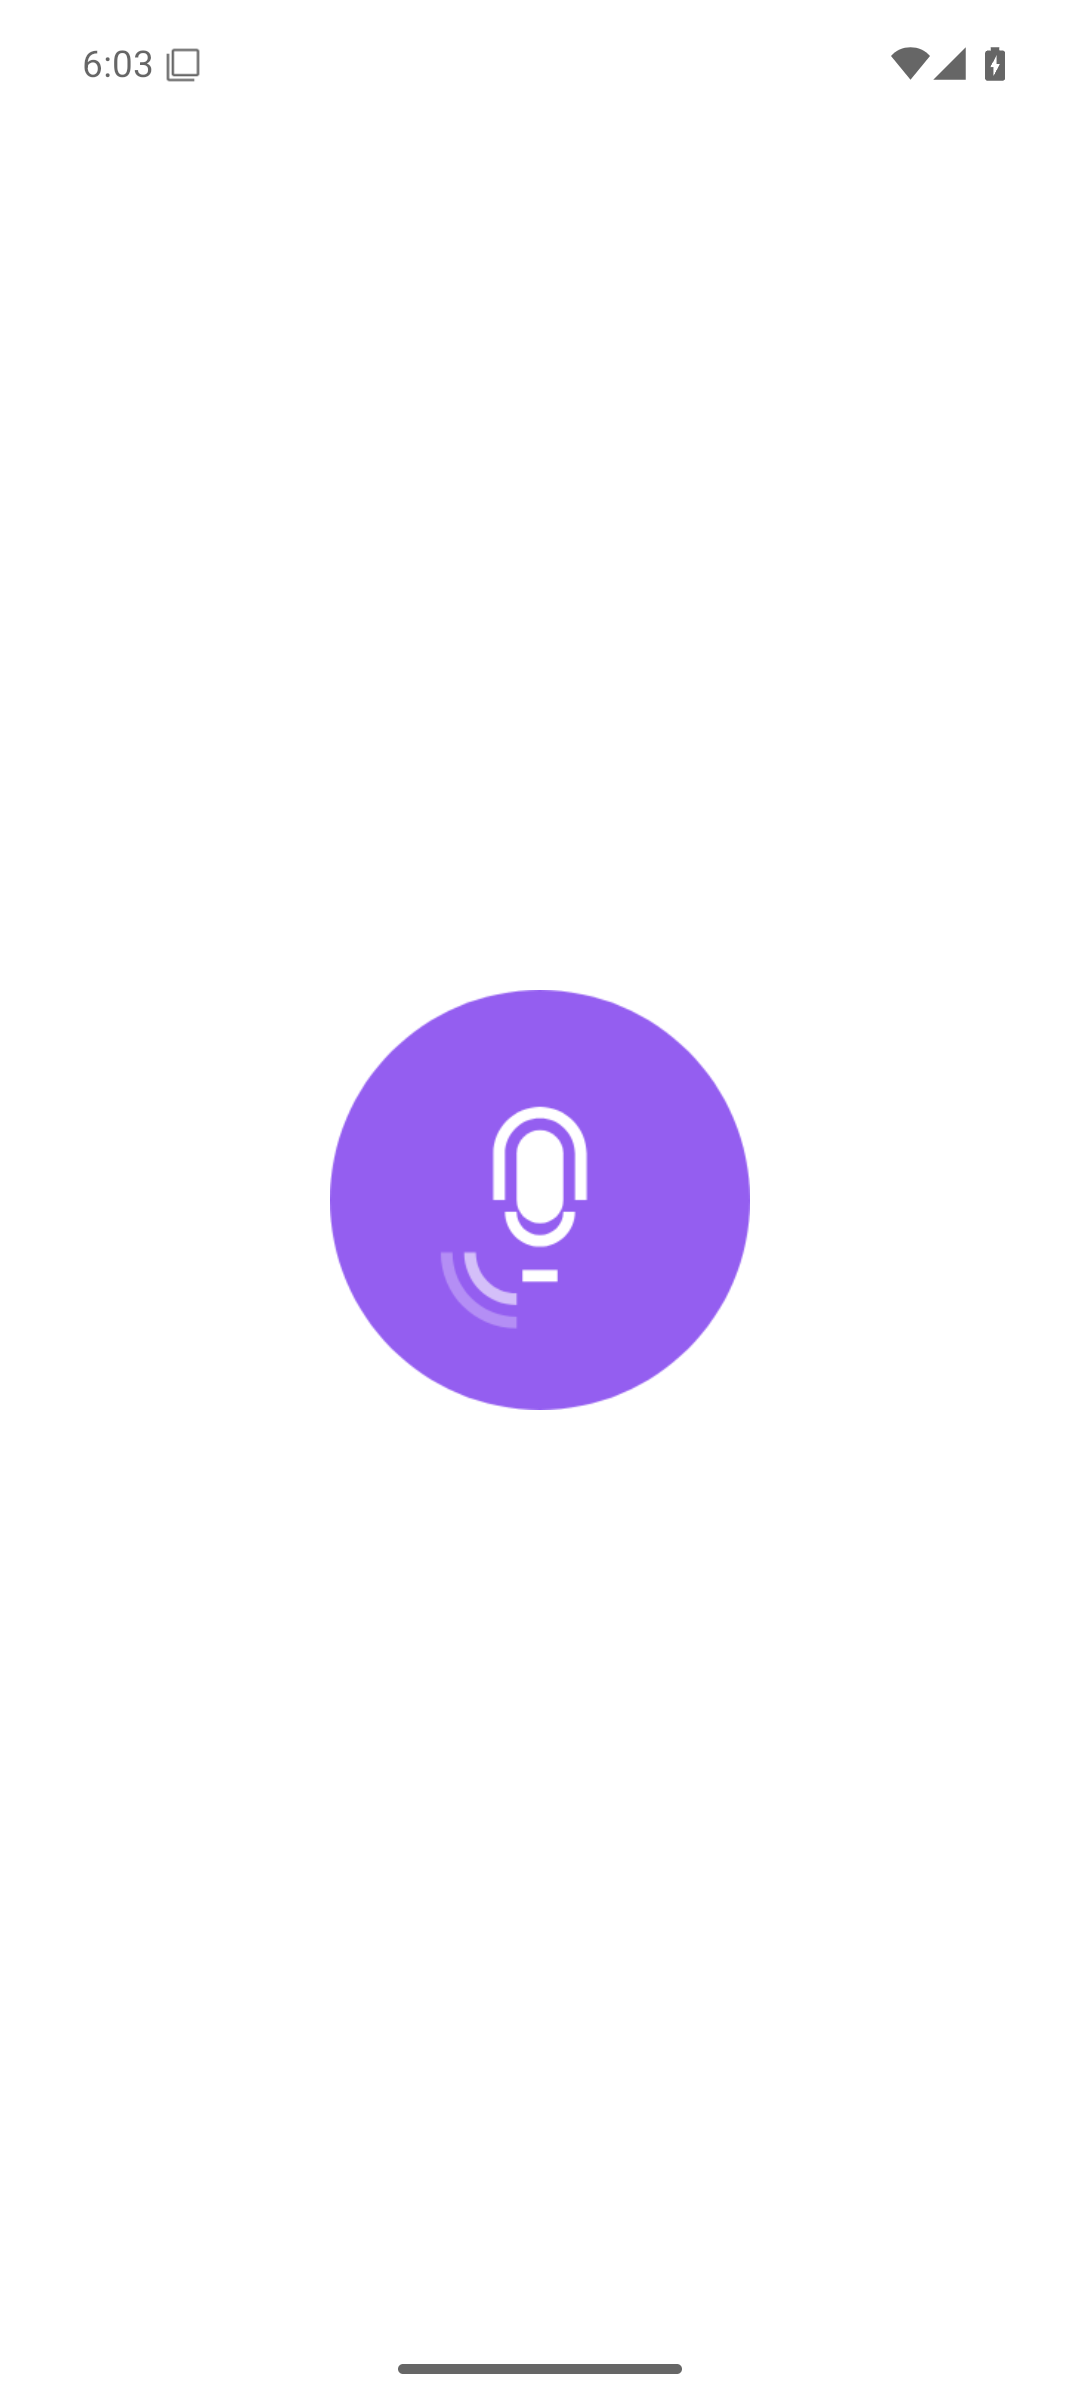
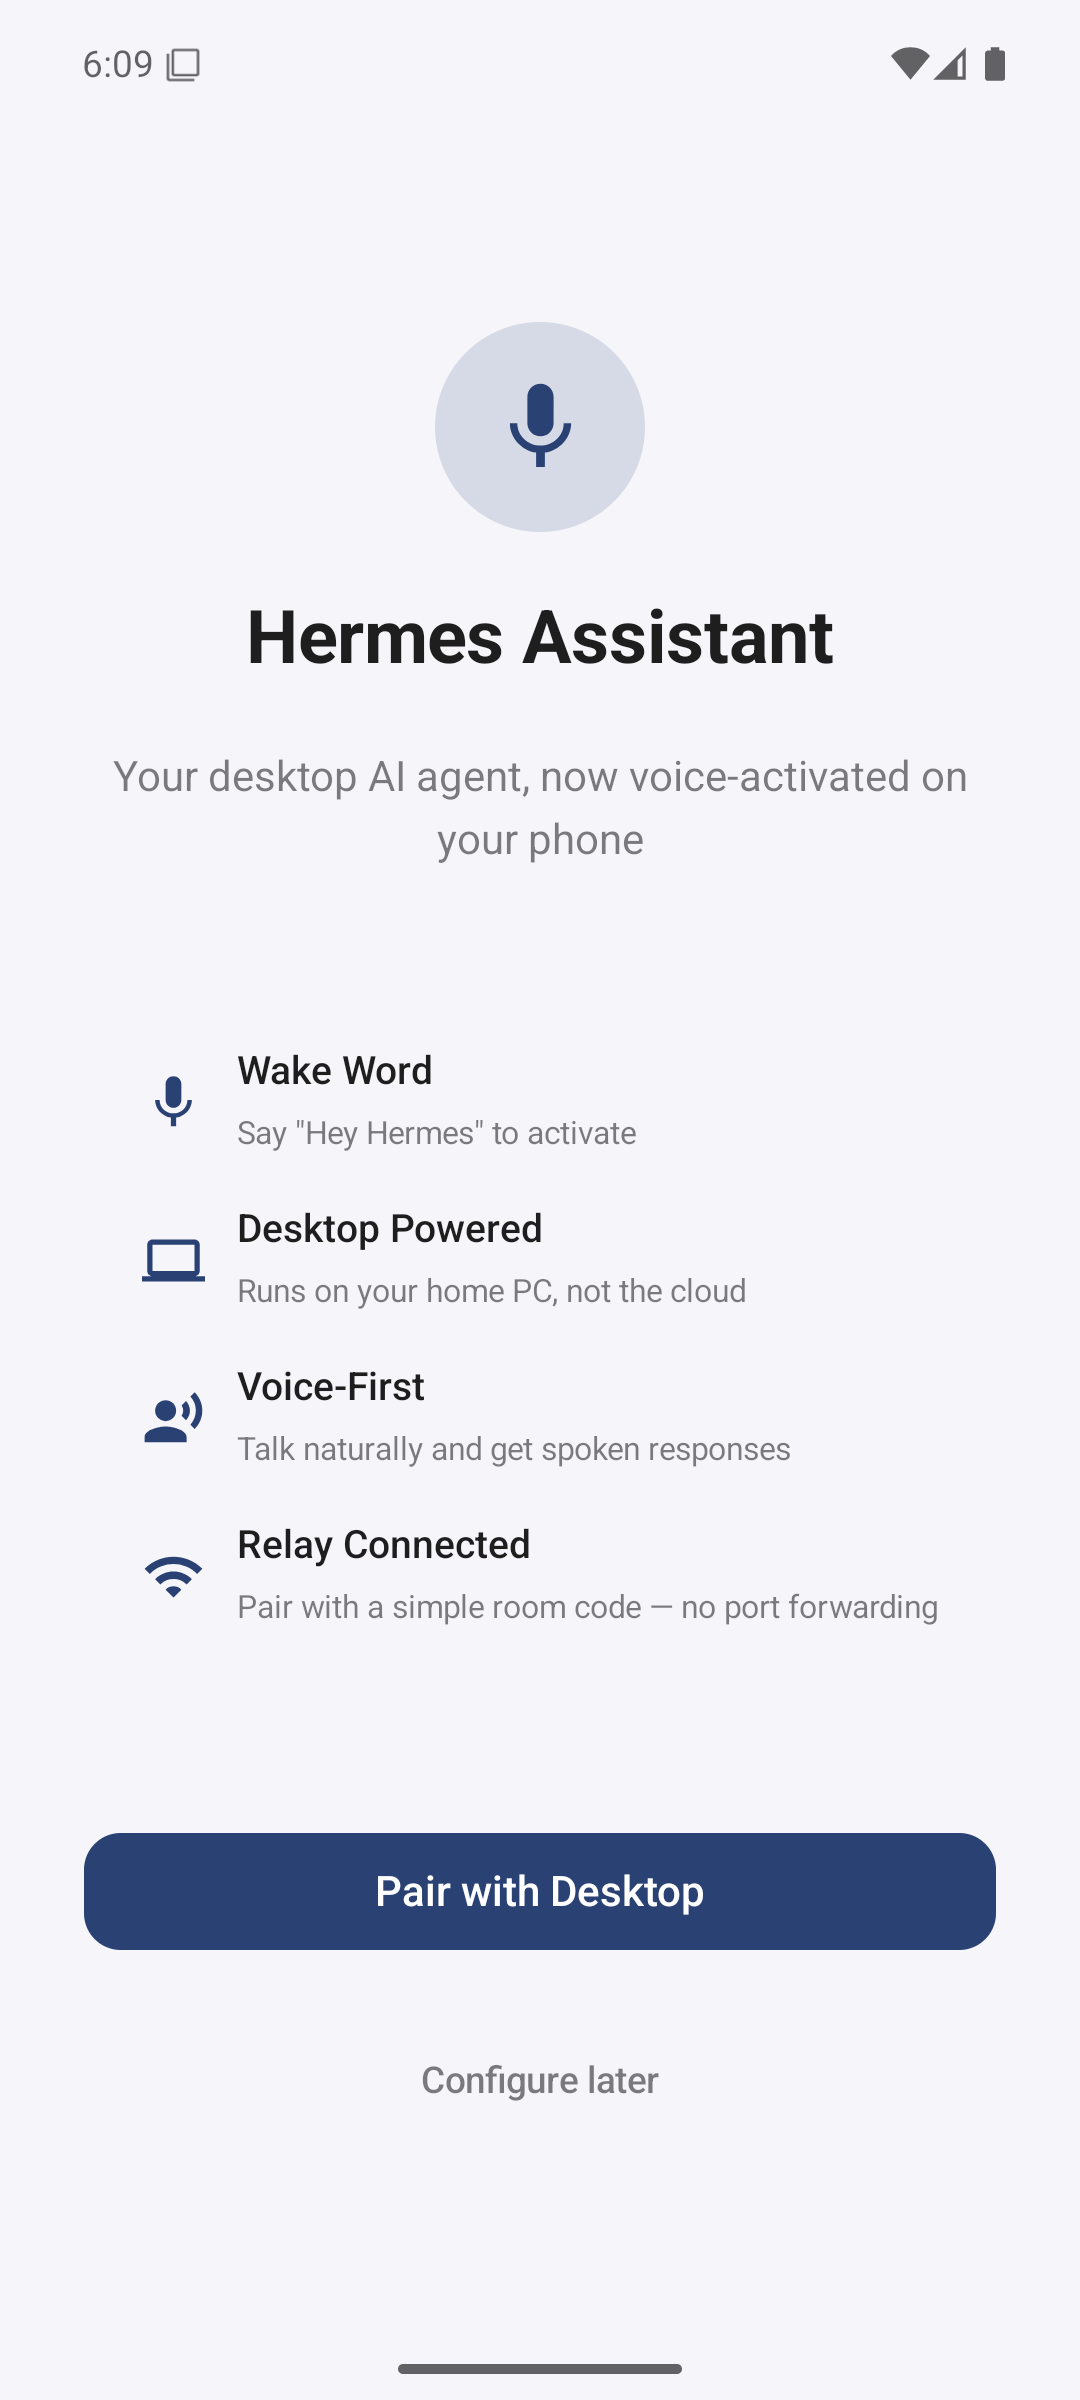
Rename: Hermes Voice → Hermes Assistant
- App name, notification, widget, tile all updated
- Onboarding title changed
- Wake word service notification title updated

diff --git a/app/src/main/java/com/xnu/rocky/hermes/WakeWordService.kt b/app/src/main/java/com/xnu/rocky/hermes/WakeWordService.kt
@@ -174,7 +174,7 @@ class WakeWordService : Service() {
 
         return NotificationCompat.Builder(this, CHANNEL_ID)
             .setSmallIcon(R.drawable.ic_tile_voice)
-            .setContentTitle("Hermes Voice")
+            .setContentTitle("Hermes Assistant")
             .setContentText(statusText)
             .setOngoing(true)
             .setContentIntent(openPending)

diff --git a/app/src/main/java/com/xnu/rocky/ui/screens/providers/OnboardingView.kt b/app/src/main/java/com/xnu/rocky/ui/screens/providers/OnboardingView.kt
@@ -65,7 +65,7 @@ fun OnboardingView(
                             Icon(Icons.Default.Mic, null, tint = OpenRockyPalette.accent, modifier = Modifier.size(40.dp))
                         }
 
-                        Text("Hermes Voice", fontSize = 28.sp, fontWeight = FontWeight.Bold, color = OpenRockyPalette.text, textAlign = TextAlign.Center)
+                        Text("Hermes Assistant", fontSize = 28.sp, fontWeight = FontWeight.Bold, color = OpenRockyPalette.text, textAlign = TextAlign.Center)
                         Text("Your desktop AI agent, now voice-activated on your phone", fontSize = 16.sp, color = OpenRockyPalette.muted, textAlign = TextAlign.Center)
 
                         Spacer(Modifier.height(16.dp))